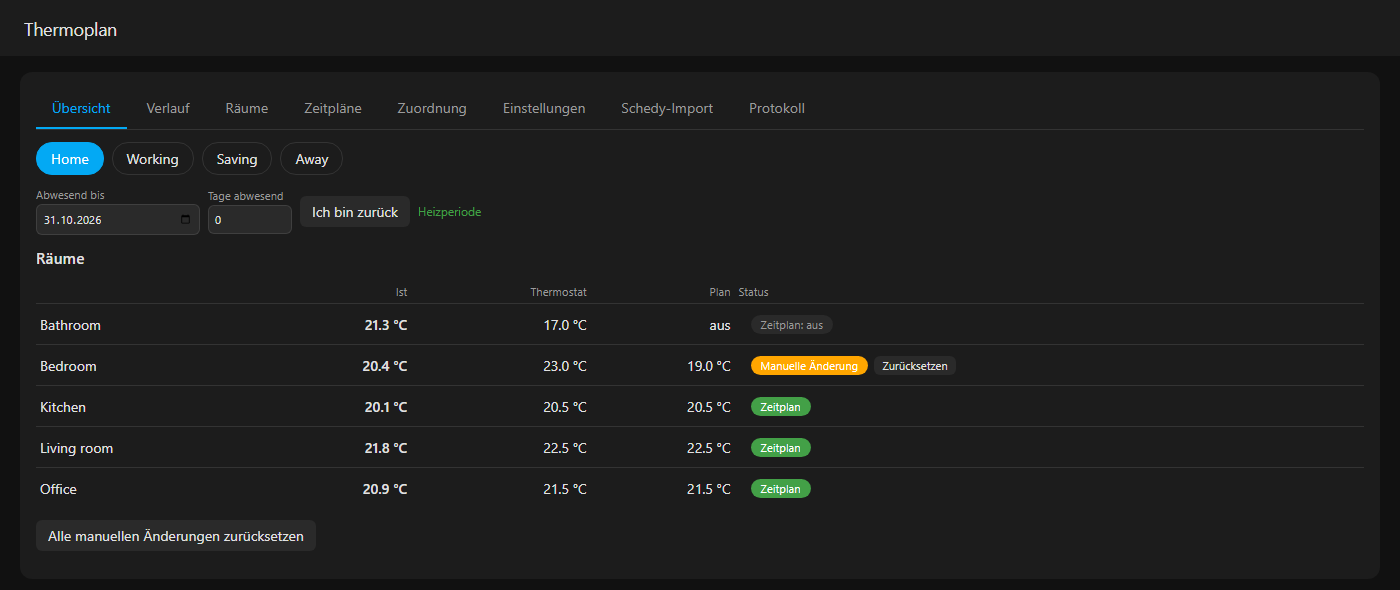
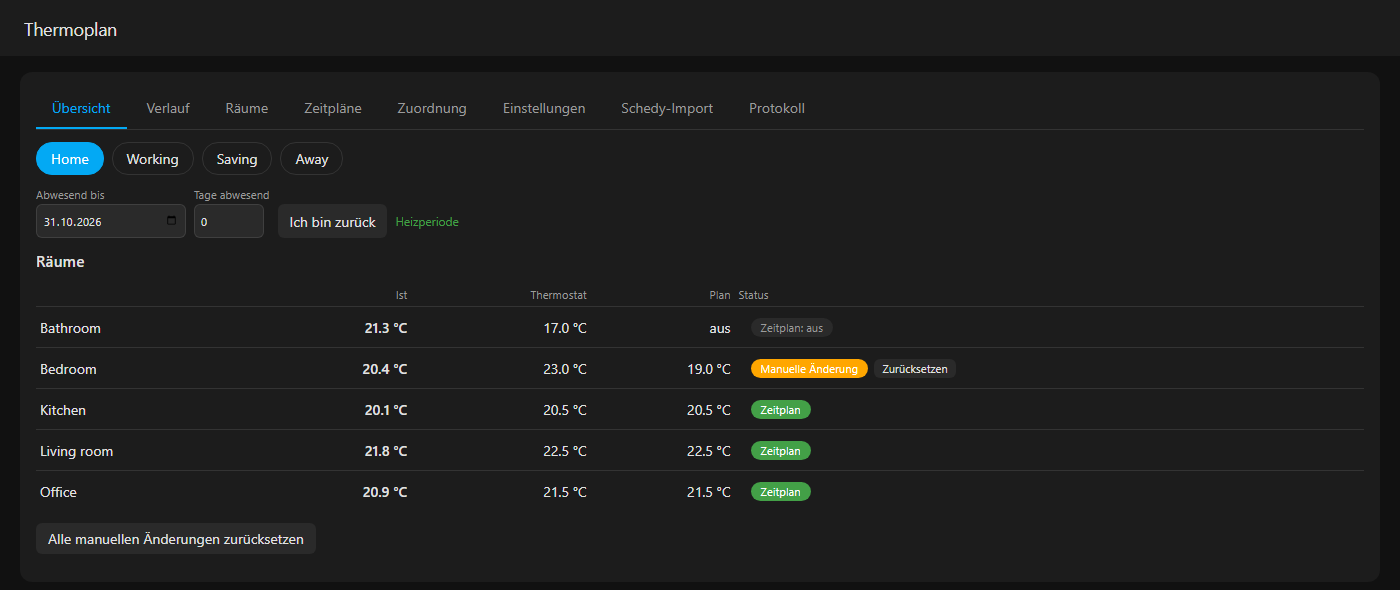
Presence rules only react to real state changes, accurate profile log, Overview alignment, copy log button

diff --git a/custom_components/thermoplan/frontend/thermoplan-log.js b/custom_components/thermoplan/frontend/thermoplan-log.js
@@ -5,10 +5,12 @@ addStrings(
   {
     tab_log: "Log", log_title: "Recent events", log_hint: "Why each room is at its current target, and what Thermoplan sent. For more detail enable debug logging (see README). Events are kept in memory (last 300) and cleared on restart.",
     log_refresh: "Refresh", log_all_rooms: "All rooms", log_empty: "No events yet.", log_general: "General",
+    log_copy: "Copy log", log_copied: "Copied", log_copy_failed: "Copying failed, select the text manually",
   },
   {
     tab_log: "Protokoll", log_title: "Letzte Ereignisse", log_hint: "Warum jeder Raum auf seiner aktuellen Solltemperatur steht und was Thermoplan gesendet hat. Für mehr Details Debug-Protokollierung aktivieren (siehe README). Ereignisse liegen im Speicher (die letzten 300) und werden beim Neustart gelöscht.",
     log_refresh: "Aktualisieren", log_all_rooms: "Alle Räume", log_empty: "Noch keine Ereignisse.", log_general: "Allgemein",
+    log_copy: "Protokoll kopieren", log_copied: "Kopiert", log_copy_failed: "Kopieren fehlgeschlagen, Text bitte manuell markieren",
   },
 );
 
@@ -37,12 +39,33 @@ export function renderLog({ state, T, getHass, render }) {
     month: "2-digit", day: "2-digit", hour: "2-digit", minute: "2-digit", second: "2-digit",
   });
 
+  // One line per event, oldest first, ready to paste into an issue or a chat.
+  const text = [...shown].reverse().map((e) => {
+    const d = new Date(e.time);
+    const stamp = `${d.getFullYear()}-${String(d.getMonth() + 1).padStart(2, "0")}-${String(d.getDate()).padStart(2, "0")} ${d.toTimeString().slice(0, 8)}`;
+    return `${stamp} [${e.room || T("log_general")}] ${e.message}`;
+  }).join("\n");
+  const copyButton = h("button", { class: "btn secondary" }, T("log_copy"));
+  copyButton.addEventListener("click", async () => {
+    let ok = false;
+    try { await navigator.clipboard.writeText(text); ok = true; } catch (err) { /* not a secure context: fall back below */ }
+    if (!ok) {
+      const area = document.createElement("textarea");
+      area.value = text; area.style.cssText = "position:fixed;opacity:0"; document.body.append(area); area.select();
+      try { ok = document.execCommand("copy"); } catch (err) { ok = false; }
+      area.remove();
+    }
+    copyButton.textContent = ok ? T("log_copied") : T("log_copy_failed");
+    setTimeout(() => { copyButton.textContent = T("log_copy"); }, 2500);
+  });
+
   return h("div", { class: "card" }, h("h3", {}, T("log_title")), h("p", { class: "help" }, T("log_hint")),
     h("div", { class: "row" },
       h("select", { onchange: (ev) => { state.logRoom = ev.target.value; render(); } },
         h("option", { value: "" }, T("log_all_rooms")),
         ...rooms.map((r) => h("option", { value: r, selected: r === filter }, r))),
-      h("button", { class: "btn secondary", onclick: () => { state.logLoaded = false; render(); } }, T("log_refresh"))),
+      h("button", { class: "btn secondary", onclick: () => { state.logLoaded = false; render(); } }, T("log_refresh")),
+      copyButton),
     ...(shown.length ? shown.map((e) => h("div", { class: "log-line" },
       h("span", { class: "log-time" }, time(e.time)),
       h("span", { class: "log-room" }, e.room || T("log_general")),

diff --git a/custom_components/thermoplan/frontend/thermoplan-common.js b/custom_components/thermoplan/frontend/thermoplan-common.js
@@ -112,6 +112,9 @@ export const STYLE = `
   .chip.active { background: var(--primary-color); border-color: var(--primary-color); color: var(--text-primary-color, #fff); }
   .badge { font-size: 0.85em; color: var(--secondary-text-color); }
   .badge.on { color: var(--success-color, #2e7d32); }
+  .row.away { align-items: flex-end; }
+  .row.away .btn, .row.away .away-input { height: 34px; box-sizing: border-box; }
+  .row.away .badge { line-height: 34px; }
   .field { display: flex; flex-direction: column; gap: 2px; font-size: 0.8em; color: var(--secondary-text-color); }
   .away-input.wide { width: 150px; }
   .away-input { width: 70px; padding: 6px; font: inherit; color: var(--primary-text-color);
@@ -139,7 +142,7 @@ export function mountOverview(root, getHass, { showTitle = true, title = "Thermo
     ${showTitle ? `<h2></h2>` : ""}
     <div class="empty" data-ref="missing" hidden></div>
     <div class="row" data-ref="profiles"></div>
-    <div class="row" data-ref="awayRow">
+    <div class="row away" data-ref="awayRow">
       <label class="field"><span data-ref="untilLabel"></span>
         <input class="away-input wide" type="date" data-ref="untilInput" /></label>
       <label class="field"><span data-ref="awayLabel"></span>

diff --git a/tests/test_controller.py b/tests/test_controller.py
@@ -208,3 +208,34 @@ async def test_thermostat_we_switched_off_is_switched_on_again(hass, hass_storag
     await controller.async_evaluate()
     assert [c.data["hvac_mode"] for c in hvac] == ["off", "heat"]
     assert room_id not in controller.data.state.off_by_us
+
+
+async def test_presence_rule_ignores_attribute_updates_and_keeps_overrides(hass, hass_storage):
+    from datetime import timedelta
+
+    from custom_components.thermoplan.controller import local_now
+    from custom_components.thermoplan.model import PresenceRule
+
+    hass.states.async_set("person.alex", "home", {"latitude": 1.0})
+    hass.states.async_set(ROOM, "heat", {"temperature": 15})
+    async_mock_service(hass, "climate", "set_temperature")
+    entry = await _setup(hass, hass_storage)
+    controller = entry.runtime_data
+    room_id = next(iter(controller.rooms))
+    controller.data.room_plans[room_id] = {"Home": "s"}
+    controller.data.profiles.append("Away")
+    controller.data.settings.person_entity = "person.alex"
+    controller.data.settings.presence_rules = [PresenceRule("home", "Home")]
+    await controller.async_set_settings(controller.data.settings)  # saves and reloads
+    await hass.async_block_till_done()
+    controller = hass.config_entries.async_loaded_entries(DOMAIN)[0].runtime_data
+    rt = controller.runtime[room_id]
+    rt.last_command = local_now() - timedelta(minutes=5)
+    hass.states.async_set(ROOM, "heat", {"temperature": 25})  # manual change
+    await hass.async_block_till_done()
+    assert rt.override is not None
+
+    hass.states.async_set("person.alex", "home", {"latitude": 2.0})  # GPS update, same state
+    await hass.async_block_till_done()
+    assert rt.override is not None
+    assert not any("presence rule" in e["message"] for e in controller.events)

diff --git a/custom_components/thermoplan/controller.py b/custom_components/thermoplan/controller.py
@@ -180,7 +180,13 @@ class Controller:
     async def async_set_profile(self, profile: str, source: str = "user") -> None:
         if profile not in self.data.profiles:
             return
-        self.log(f"Profile set to '{profile}' ({source}); manual overrides cleared")
+        if source != "user" and profile == self.data.state.active_profile:
+            return  # a presence rule that changes nothing must not wipe manual changes
+        cleared = sum(1 for rt in self.runtime.values() if rt.override is not None)
+        self.log(
+            f"Profile set to '{profile}' ({source})"
+            + (f"; {cleared} manual change(s) cleared" if cleared else "")
+        )
         self.data.state.active_profile = profile
         for rt in self.runtime.values():
             rt.override = None  # an explicit profile change wins over manual changes
@@ -604,6 +610,9 @@ class Controller:
         entity_id = event.data["entity_id"]
         new = event.data["new_state"]
         if entity_id == self.data.settings.person_entity and new is not None:
+            old = event.data.get("old_state")
+            if old is not None and old.state == new.state:
+                return  # only attributes changed (e.g. GPS position)
             for rule in self.data.settings.presence_rules:
                 if rule.state.casefold() == new.state.casefold():
                     self.hass.async_create_task(
